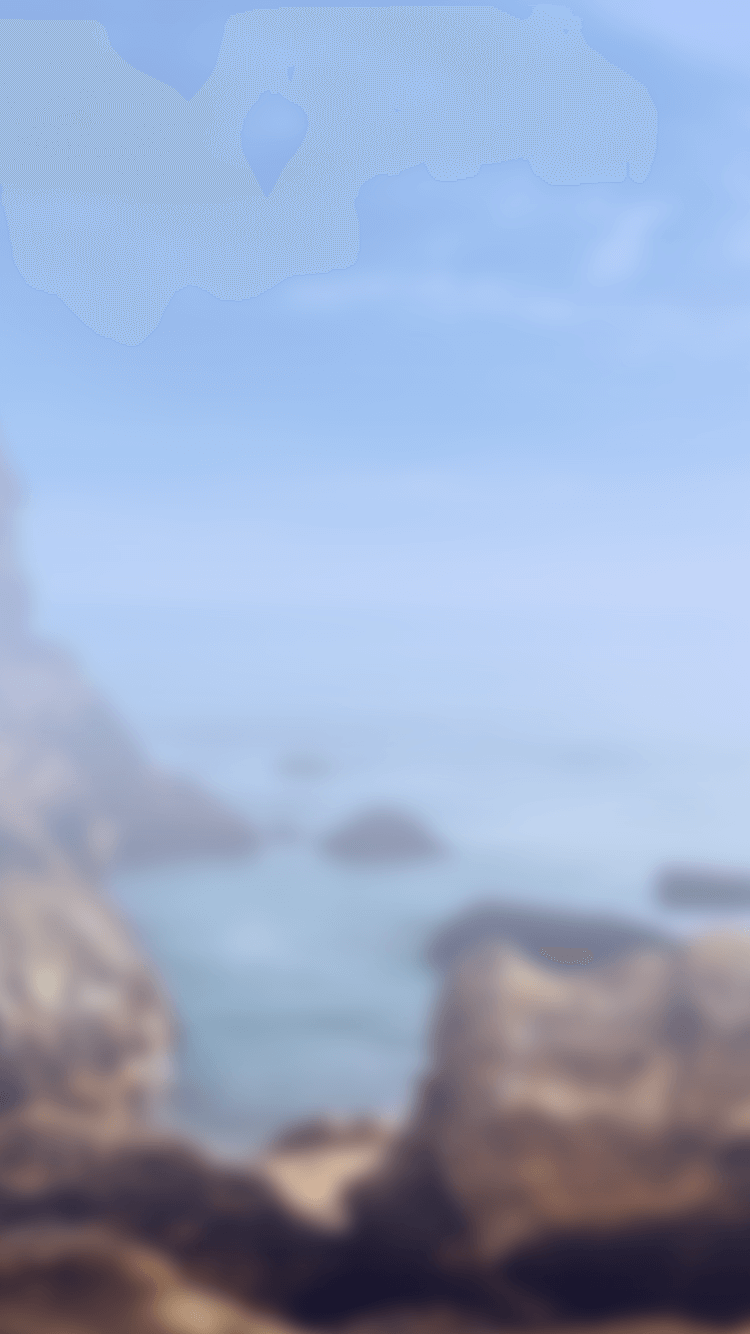
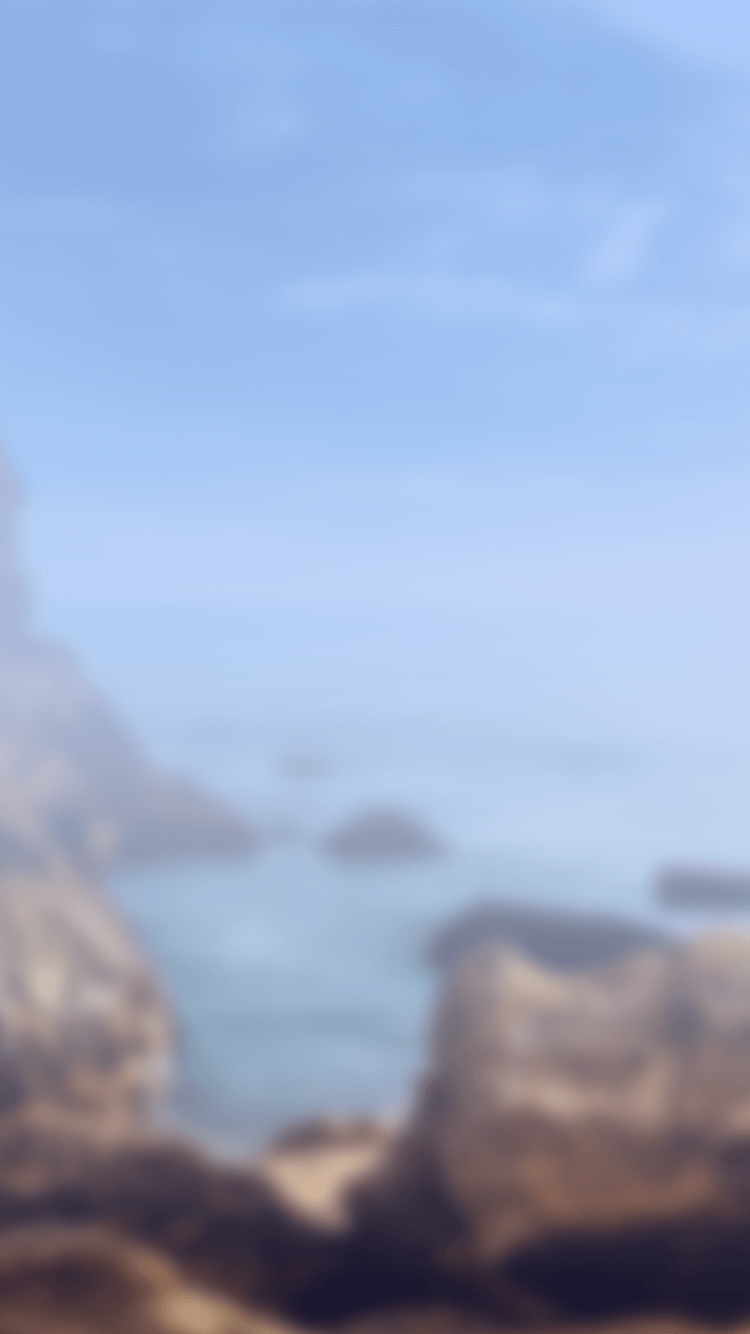
首页

Changed region(s): [[0.0, 0.0, 0.8587, 0.2459]]

diff --git a/react-native/MainView.js b/react-native/MainView.js
@@ -1,0 +1,88 @@
+'use strict';
+
+import React, {Component} from 'react';
+import {
+  View,
+  Text,
+  Image,
+  Platform,
+  StatusBar,
+  TouchableOpacity,
+  InteractionManager,
+  Dimensions,
+  StyleSheet
+} from 'react-native';
+
+import globalStyles from './globalStyles'
+
+const {width, height} = Dimensions.get('window');
+const RATIO_WIDTH = width / 375;
+const defaultParam = {
+  title: '',
+  time: '',
+  category: '',
+  alert: false,
+  pinned: false,
+  comment: ''
+};
+
+export default class MainView extends Component {
+  constructor(props) {
+    super(props);
+    this.state = {};
+  }
+
+  _renderHeaderView(dayCnt = 0, pinnedDayCnt = 0) {
+    return (
+      <View style={styles.header}>
+        <View style={{alignItems: 'center', justifyContent: 'center'}}>
+          <Text style={styles.headerTitle}>
+            {'我的日程'}
+          </Text>
+          <Text style={styles.headerDay}>
+            {dayCnt}
+          </Text>
+        </View>
+
+        <View style={{alignItems: 'center', justifyContent: 'center'}}>
+          <Text style={styles.headerTitle}>
+            {'星标日程'}
+          </Text>
+          <Text style={styles.headerDay}>
+            {pinnedDayCnt}
+          </Text>
+        </View>
+      </View>
+    )
+  }
+
+  render() {
+    return (
+      <View style={[globalStyles.main.noBarContainer]}>
+        {this._renderHeaderView()}
+      </View>
+    )
+  }
+}
+
+MainView.propType = {};
+
+MainView.defaultProps = {};
+
+let styles = StyleSheet.create({
+  header: {
+    marginTop: 27,
+    flexDirection: 'row',
+    alignItems: 'center',
+    justifyContent: 'space-around'
+  },
+  headerTitle: {
+    color: '#4f72b2',
+    fontSize: 15,
+  },
+  headerDay: {
+    marginTop: 10,
+    color: '#ffffff',
+    fontSize: 18,
+  }
+});

diff --git a/react-native/globalStyles.js b/react-native/globalStyles.js
@@ -1,0 +1,26 @@
+'use strict';
+
+import React, {Component} from 'react';
+import {
+  StatusBar,
+  Dimensions,
+  StyleSheet,
+  Platform
+} from 'react-native';
+
+let {width, height} = Dimensions.get('window');
+let BarHeight = StatusBar.currentHeight;
+
+import BaseManager from 'BaseManager'
+
+const IOS = Platform.OS === 'ios';
+
+exports.main = StyleSheet.create({
+  noBarContainer: {
+    height: IOS ? BaseManager.isIphoneX ? height - 88 : height - 64 : height - 56 - BarHeight,
+    marginTop: IOS ? BaseManager.isIphoneX ? 88 : 64 : 56,
+    width: width,
+    backgroundColor: 'transparent'
+  }
+})
+;

diff --git a/react-native/Main.js b/react-native/Main.js
@@ -18,6 +18,7 @@ const {width, height} = Dimensions.get('window');
 const RATIO_WIDTH = width / 375;
 
 import NavigationBar from './NavigationBar'
+import MainView from "./MainView";
 
 export default class Main extends Component {
   constructor(props) {
@@ -35,7 +36,9 @@ export default class Main extends Component {
         style={{flex: 1}}
         source={require('./images/FD.png')}
       >
+        <MainView
 
+        />
       </ImageBackground>
     )
   }

diff --git a/index.js b/index.js
@@ -1,8 +1,10 @@
 import {AppRegistry, Platform} from 'react-native';
 
+
 global.__IOS__ = Platform === 'ios';
 global.__ANDROID__ = Platform !== 'ios';
 
 import App from './react-native/App';
+require('./react-native/globalStyles');
 
 AppRegistry.registerComponent('FantasticDayDemo', () => App);

diff --git a/react-native/BaseManager.js b/react-native/BaseManager.js
@@ -1,0 +1,13 @@
+/**
+ * @providesModule BaseManager
+ */
+
+import {
+  NativeModules,
+} from 'react-native'
+
+const {BaseManager} = NativeModules;
+
+module.exports = {
+  isIphoneX: BaseManager && BaseManager.isIphoneX && BaseManager.isIphoneX === 'true'
+};

diff --git a/ios/FantasticDayDemo/dependent/BaseManager.h b/ios/FantasticDayDemo/dependent/BaseManager.h
@@ -1,0 +1,17 @@
+//
+//  BaseManager.h
+//  FantasticDayDemo
+//
+//  Created by Huang on 2017/12/22.
+//  Copyright © 2017年 Facebook. All rights reserved.
+//
+
+#import <UIKit/UIKit.h>
+#import <Foundation/Foundation.h>
+#import <React/RCTBridgeModule.h>
+
+#define iPhoneX ([UIScreen instancesRespondToSelector:@selector(currentMode)] ? CGSizeEqualToSize(CGSizeMake(1125, 2436), [[UIScreen mainScreen] currentMode].size) : NO)
+
+@interface BaseManager : NSObject <RCTBridgeModule>
+
+@end

diff --git a/ios/FantasticDayDemo/dependent/BaseManager.m b/ios/FantasticDayDemo/dependent/BaseManager.m
@@ -1,0 +1,22 @@
+//
+//  BaseManager.m
+//  FantasticDayDemo
+//
+//  Created by Huang on 2017/12/22.
+//  Copyright © 2017年 Facebook. All rights reserved.
+//
+
+#import "BaseManager.h"
+
+@implementation BaseManager
+
+RCT_EXPORT_MODULE();
+
+- (NSDictionary *)constantsToExport {
+  return
+  @{
+    @"isIphoneX": iPhoneX ? @"true" : @"false"
+    };
+}
+
+@end
